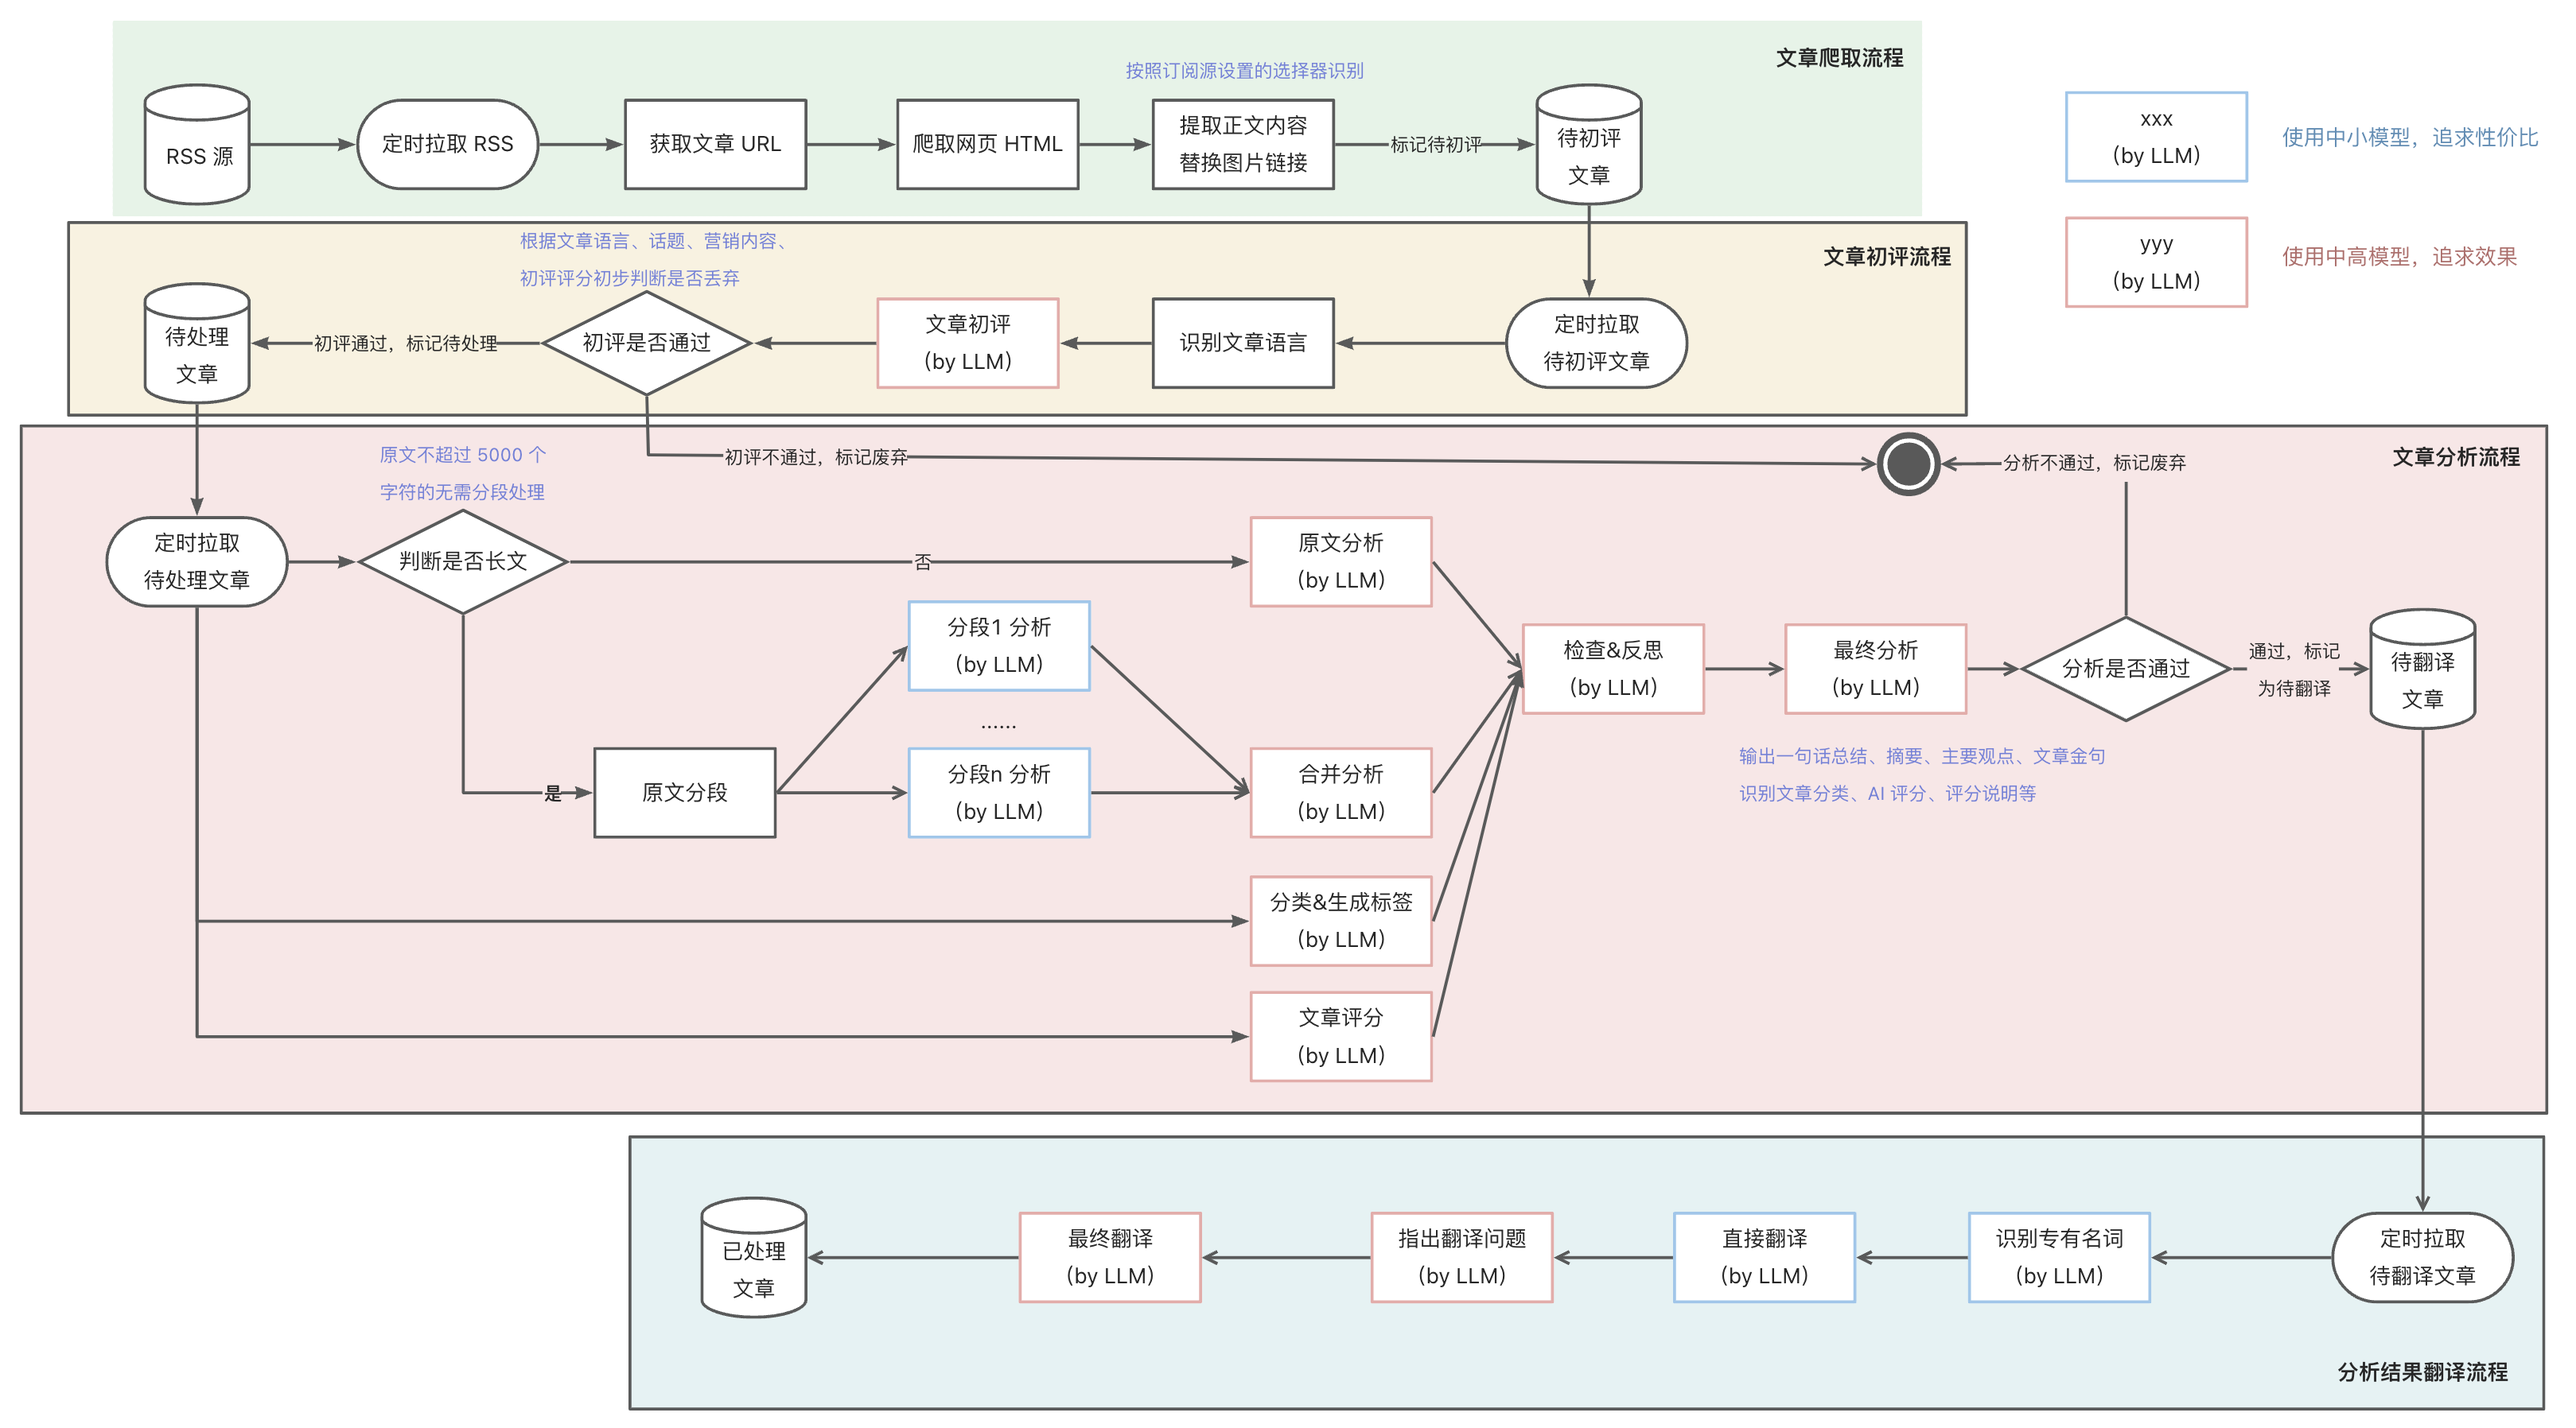
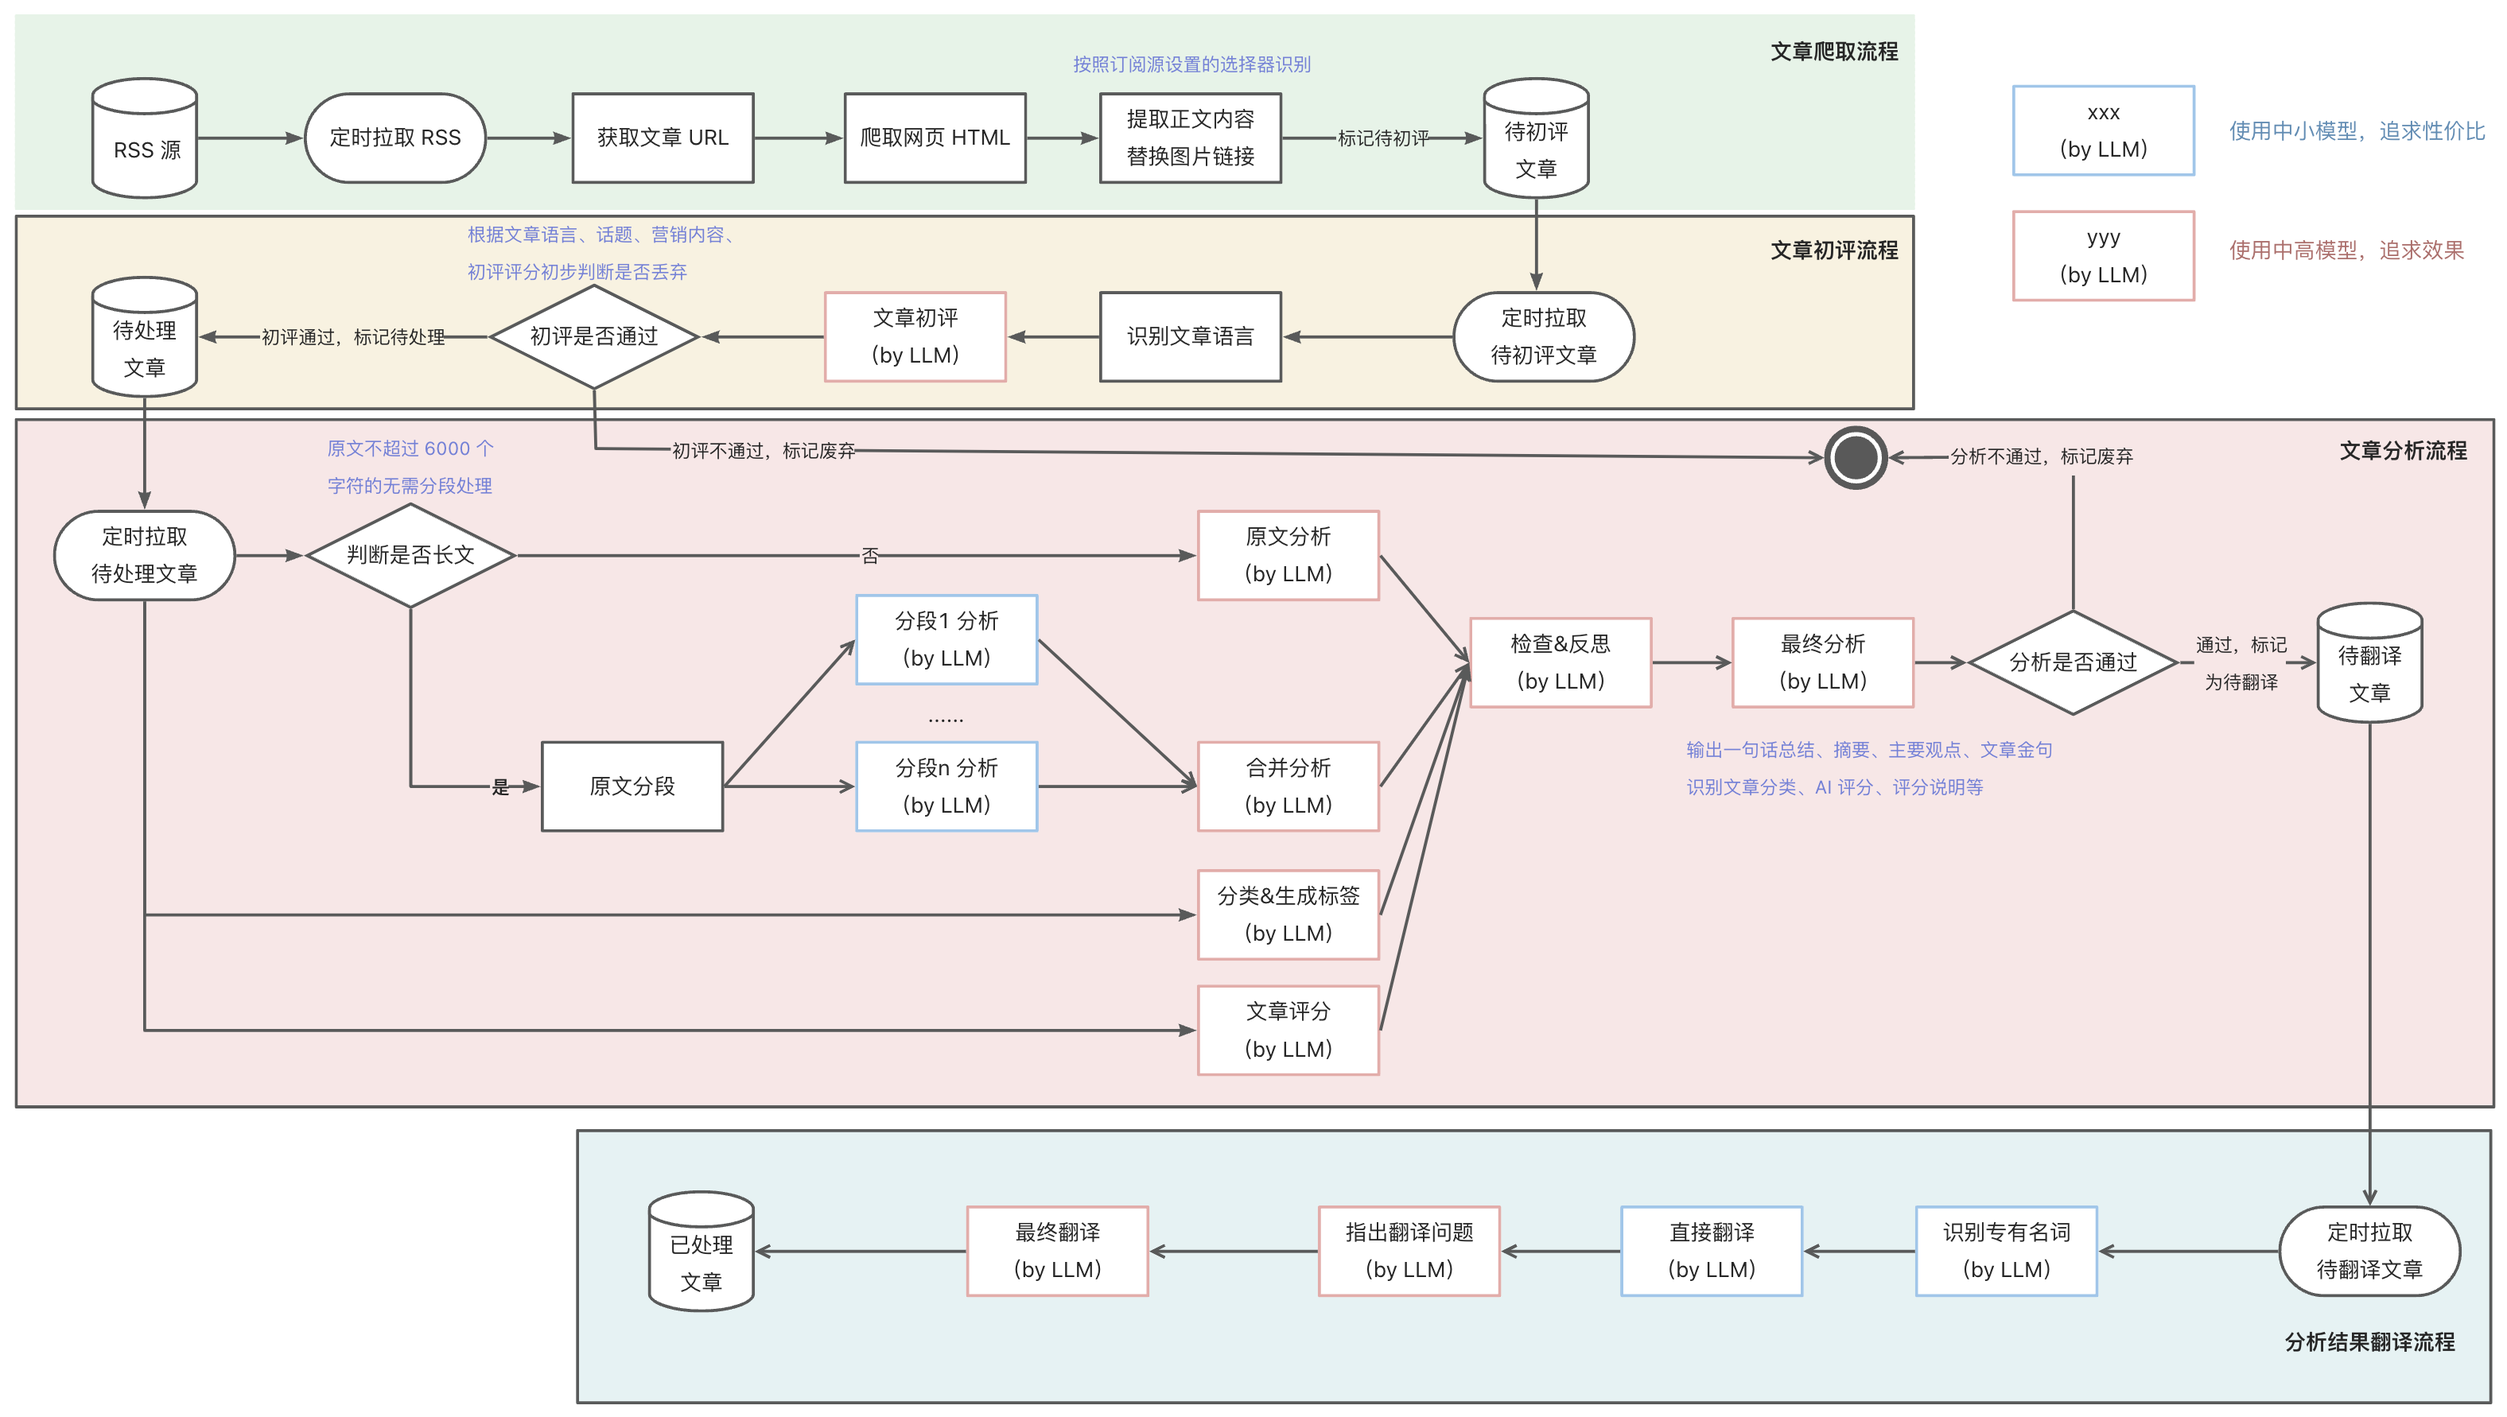
add doc

diff --git a/flows/Dify/Intelligent Article Analysis at BestBlogs.dev: A Case Study Using Dify Workflow.md b/flows/Dify/Intelligent Article Analysis at BestBlogs.dev: A Case Study Using Dify Workflow.md
@@ -1,0 +1,169 @@
+# Intelligent Article Analysis at BestBlogs.dev: A Case Study Using Dify Workflow
+
+## Abstract
+
+This case study explores how BestBlogs.dev leverages Dify Workflow to implement an automated article analysis process. We detail the journey from initial article evaluation to in-depth analysis and multilingual translation. By adopting the Dify platform, we've significantly enhanced our content processing efficiency and quality, delivering a superior reading experience. We share our implementation insights and Dify Workflow user experience, providing valuable reference for developers facing similar challenges.
+
+## Background
+
+[BestBlogs.dev](https://bestblogs.dev) is a curated content platform targeting tech professionals, entrepreneurs, and product managers. We aggregate high-quality content across software development, artificial intelligence, product management, marketing, design, business, technology, and personal growth.
+
+Our core methodology involves collecting premium blog articles via RSS feeds and web crawlers, then employing large language models (LLMs) for content evaluation and filtering. This approach significantly enhances content quality and processing efficiency. Key features include:
+
+- **Intelligent Summarization**: We utilize advanced LLMs to extract key points from each article, enabling readers to quickly grasp crucial information in today's fast-paced environment.
+
+- **AI-Powered Content Scoring**: Our system carefully evaluates articles across multiple dimensions including depth, writing quality, practicality, and relevance. This helps readers efficiently identify high-value content.
+
+- **Cross-Language Accessibility** (In Development): Leveraging cutting-edge translation technology, we aim to break language barriers, allowing global tech enthusiasts to access knowledge without linguistic constraints.
+
+![BestBlogs Article Page](./flowImages/article_detail_page_en.png)
+
+### Dify Workflow: An Overview
+
+Dify Workflow is a robust LLMOps platform designed for constructing complex AI-driven processes. It offers:
+
+- An intuitive, drag-and-drop interface for workflow creation and management
+- Support for multiple LLMs
+- A rich set of pre-configured node types (e.g., conditional logic, loops, HTTP calls)
+- Comprehensive debugging, logging, and API integration capabilities
+
+These features make Dify particularly well-suited for building sophisticated content processing systems like BestBlogs.dev.
+
+## The Need for Workflow
+
+Our initial approach relied on a monolithic prompt to handle article summarization, tag generation, scoring, and translation. This method presented several challenges:
+
+- Difficulty in controlling and optimizing output
+- Frequent omission of critical information in summaries
+- Inconsistent tag generation
+- Cumbersome adjustment of scoring standards
+- Rigid translation results
+- Complicated maintenance, testing, and deployment processes
+
+![Original Prompt Used](./flowImages/original_prompt.png)
+
+## Choosing Dify
+
+We evaluated several leading AI workflow platforms before selecting Dify:
+
+1. Coze:
+   Pros:
+   - Community-oriented with easy sharing of workflows and agents
+   - User-friendly with a low learning curve
+   Cons:
+   - No support for custom API keys
+   - Lack of self-deployment options, raising potential data security concerns
+
+2. FastGPT:
+   Pros:
+   - Open-source with self-deployment support
+   - Established user base
+   Cons:
+   - Emerging platform with a developing ecosystem
+   - Limited pre-configured node types, restricting flexibility
+
+3. Dify:
+   Pros:
+   - Comprehensive LLMOps functionality, ideal for complex AI applications
+   - Intuitive visual interface
+   - Wide range of supported LLMs
+   - Extensive pre-configured node types, boosting development efficiency
+   - Open-source with self-deployment options, ensuring data security
+   - Robust debugging and logging features
+   Cons:
+   - Evolving community ecosystem
+   - Some advanced features limited to the enterprise version
+
+Dify's alignment with our needs for flexibility, customization, and data security made it our top choice. It not only meets our current requirements but also provides ample room for future scalability and optimization.
+
+## Implementing Dify Workflow
+
+We redesigned our core processes before implementing Dify Workflow, focusing on these key areas:
+
+1. **Article Crawling**: We use RSS protocols to fetch article metadata (title, link, publication date) and employ headless browsers for full-content retrieval. Content is then processed and queued for analysis.
+
+2. **Initial Evaluation**: This stage involves preliminary scoring based on language and content characteristics, filtering out low-quality or overly promotional articles.
+
+3. **In-depth Analysis**: LLMs generate comprehensive article metadata, including summaries, key points, quotes, domain classification, tags, and quality scores. This process enhances content discoverability and reader engagement.
+
+4. **Translation**: For multilingual support, we translate analysis results using a three-stage process: initial translation, quality check, and idiomatic refinement.
+
+![Website Main Process](./flowImages/bestblogs_main_flow_en.png)
+
+> Note: Detailed DSL files and node-specific prompts are available in the [BestBlogs project repository](https://github.com/ginobefun/bestblogs).
+
+### Initial Evaluation Workflow
+
+![Initial Article Evaluation Process](./flowImages/filter_article_enflow_english_article_result.png)
+
+Key aspects of this workflow:
+
+- Input: Article ID for easy testing and API integration
+- Data retrieval: Utilizes Dify's HTTP call and code nodes to fetch article metadata and content
+- Language-specific processing: Employs different models and prompts for Chinese and English content
+- Evaluation framework: Implements the CO-STAR prompt structure for context, objectives, steps, and output formatting
+- Integration: Our application uses Dify's API to process articles, determining further actions based on evaluation results
+
+![Process Call Code](./flowImages/run_flow_by_java.png)
+
+### Comprehensive Analysis Workflow
+
+![Article Analysis Process](./flowImages/analyze_article_enflow_short_article_result.png)
+
+This workflow encompasses:
+
+- Segmented processing for longer articles (>6000 characters) to ensure thorough analysis
+- Generation of concise summaries, key points, and notable quotes
+- Utilization of branching, iteration, and variable aggregation for flexible process control
+- Domain classification and tag generation to enhance content organization and discoverability
+- Multi-dimensional quality scoring to facilitate content curation
+- A reflection and optimization stage to refine analysis outputs
+
+### Translation Workflow
+
+![Analysis Result Translation Process](./flowImages/translate_article_enflow_result.png)
+
+Our translation process involves:
+
+- Retrieval of article metadata, content, and analysis results via Dify's API
+- A three-stage translation approach: initial translation, quality assessment, and idiomatic refinement
+- Optimization for natural expression in the target language
+
+## Results and Impact
+
+The implementation of Dify Workflow has yielded significant improvements:
+
+- Successful deployment across our entire article base with stable API performance
+- Enhanced analysis quality compared to our previous monolithic approach
+- More comprehensive summaries and the addition of key points and memorable quotes
+- Standardized article scoring
+- Improved workflow adaptability and easier prompt refinement
+- Enhanced debugging capabilities through detailed operational logs
+
+![Operation Logs](./flowImages/task_logs_en.png)
+
+## Conclusion and Future Directions
+
+Our integration of Dify Workflow has substantially improved BestBlogs.dev's article processing capabilities. The platform now offers more efficient and higher-quality content analysis, enhancing the overall user experience.
+
+Key benefits of Dify Workflow include:
+
+- Intuitive design with a minimal learning curve
+- Excellent testing and tracking functionalities
+- Flexible model integration
+- Open-source architecture with self-deployment options
+- Comprehensive logging for enhanced security and troubleshooting
+
+While Dify continues to evolve, addressing areas like version control and parallel processing, it has proven to be a powerful tool for our needs.
+
+Looking ahead, we're exploring several enhancements:
+
+1. **Intelligent Search**: Leveraging Dify to develop more precise, intent-based search functionality.
+
+2. **Personalized Recommendations**: Creating an AI-driven system for tailored content suggestions.
+
+3. **Interactive Q&A**: Implementing an article-based Q&A system to enhance reader engagement and comprehension.
+
+4. **Full-Text Translation**: Expanding our translation capabilities to enable immersive reading experiences across multiple languages.
+
+These future developments aim to further elevate BestBlogs.dev's user experience, offering more intelligent and personalized content delivery. We're excited to continue exploring Dify's capabilities and contributing our insights to the broader tech community.
